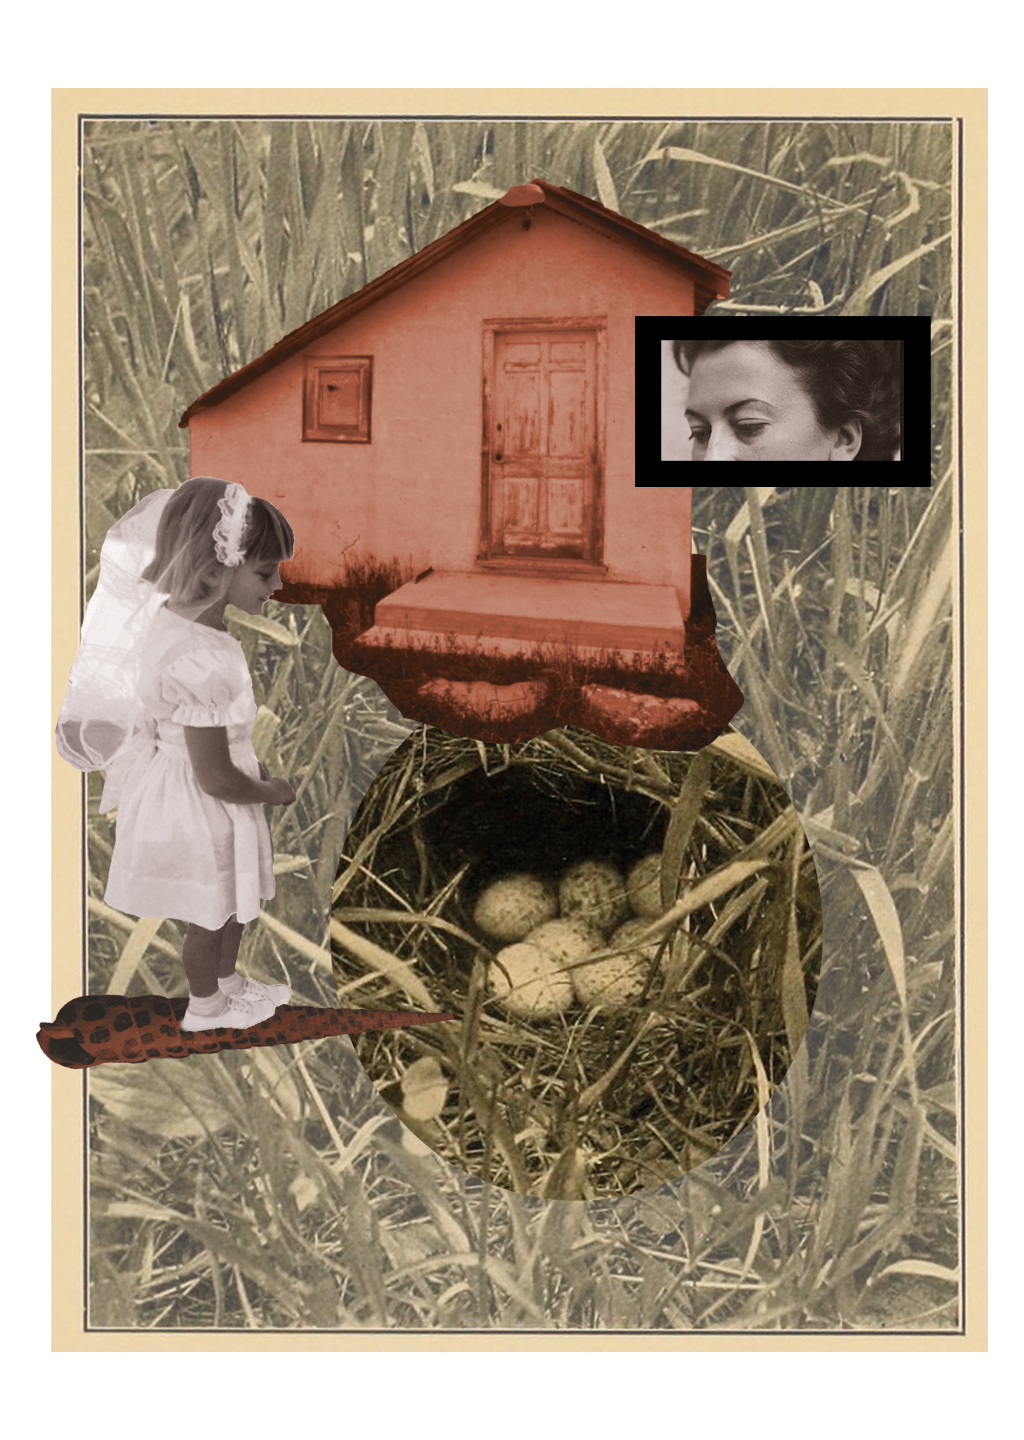
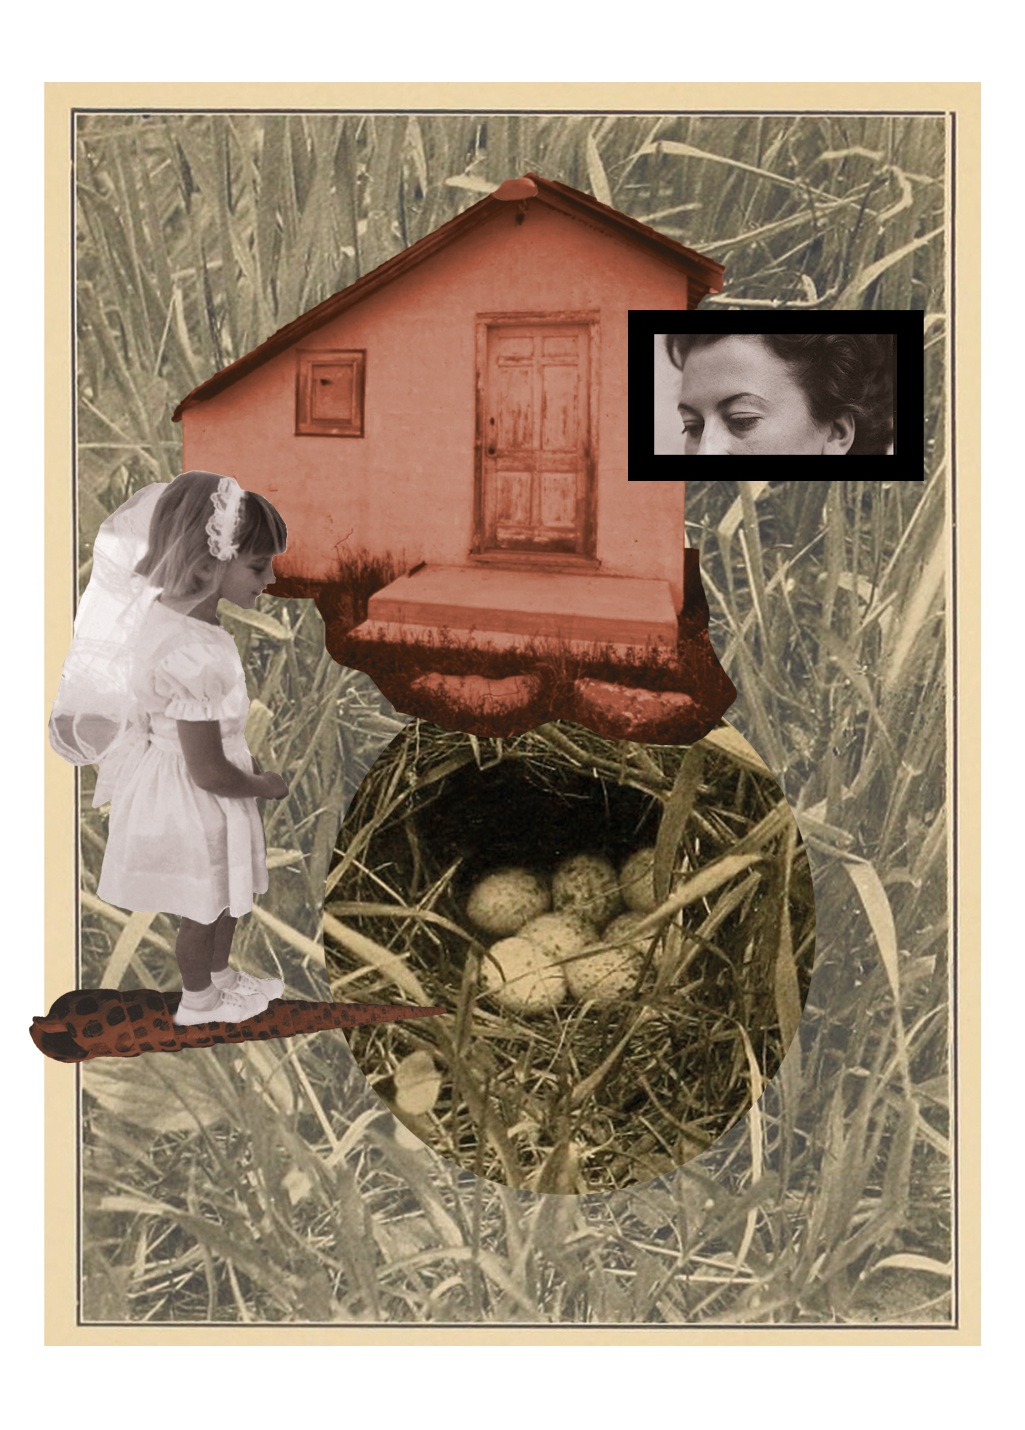
optimization_v3

diff --git a/src/sections/mujeroblicua/mujer-oblicua-view.jsx b/src/sections/mujeroblicua/mujer-oblicua-view.jsx
@@ -7,66 +7,54 @@ import {
 import HTMLFlipBook from "react-pageflip";
 import PdfButton from "../../components/PdfButton";
 
-const Cover = lazy(() => import("./components/Cover"));
-const VersoCover = lazy(() => import("./components/VersoCover"));
-const BackCover = lazy(() => import("./components/BackCover"));
-const PoemOne = lazy(() => import("./components/PoemOne"));
-const PoemTwoA = lazy(() => import("./components/PoemTwoA"));
-const PoemTwoB = lazy(() => import("./components/PoemTwoB"));
-const PoemThree = lazy(() => import("./components/PoemThree"));
-const CollageTwo = lazy(() => import("./components/CollageTwo"));
-const PageMiddleLeft = lazy(() => import("./components/PageMiddleLeft"));
-const PageMiddleRight = lazy(() => import("./components/PageMiddleRight"));
-const PoemFour = lazy(() => import("./components/PoemFour"));
-const CollageThree = lazy(() => import("./components/CollageThree"));
-const VideoPoem = lazy(() => import("./components/VideoPoem"));
-const VideoPoemImg = lazy(() => import("./components/VideoPoemImg"));
+const pages = [
+  lazy(() => import("./components/Cover")),
+  lazy(() => import("./components/VersoCover")),
+  lazy(() => import("./components/PoemOne")),
+  lazy(() => import("./components/PoemTwoA")),
+  lazy(() => import("./components/PoemTwoB")),
+  lazy(() => import("./components/PoemThree")),
+  lazy(() => import("./components/CollageTwo")),
+  lazy(() => import("./components/PageMiddleLeft")),
+  lazy(() => import("./components/PageMiddleRight")),
+  lazy(() => import("./components/PoemFour")),
+  lazy(() => import("./components/CollageThree")),
+  lazy(() => import("./components/VideoPoem")),
+  lazy(() => import("./components/VideoPoemImg")),
+  lazy(() => import("./components/BackCover")),
+];
 
 export default function MujerOblicuaView() {
   return (
-    <>
-      <Container maxWidth={"md"}>
-        <SectionAnimation>
-          <Stack spacing={2}>
-            <HTMLFlipBook
-              width={520}
-              height={750}
-              minWidth={235}
-              minHeight={0}
-              size="stretch"
-              maxShadowOpacity={0}
-              showCover={true}
-              flippingTime={900}
-              mobileScrollSupport
-              disableFlipByClick
-              showPageCorners={false}
-              startZIndex={100}
-            >
-              <Cover />
-              <VersoCover />
-              <PoemOne />
-              <PoemTwoA />
-              <PoemTwoB />
-              <PoemThree />
-              <CollageTwo />
-              <PageMiddleLeft />
-              <PageMiddleRight />
-              <PoemFour />
-              <CollageThree />
-              <VideoPoem />
-              <VideoPoemImg />
-              <BackCover />
-            </HTMLFlipBook>
-            <Container>
-              <Box sx={{ flexGrow: 1 }} display="flex" justifyContent="center">
-                <NavigateAnimation>
-                  <PdfButton />
-                </NavigateAnimation>
-              </Box>
-            </Container>
-          </Stack>
-        </SectionAnimation>
-      </Container>
-    </>
+    <Container maxWidth="md">
+      <SectionAnimation>
+        <Stack spacing={2}>
+          <HTMLFlipBook
+            width={520}
+            height={750}
+            minWidth={235}
+            minHeight={0}
+            size="stretch"
+            maxShadowOpacity={0}
+            showCover={true}
+            flippingTime={900}
+            mobileScrollSupport
+            disableFlipByClick
+            showPageCorners={false}
+          >
+            {pages.map((PageComponent, index) => (
+              <PageComponent key={index} />
+            ))}
+          </HTMLFlipBook>
+          <Container>
+            <Box sx={{ flexGrow: 1 }} display="flex" justifyContent="center">
+              <NavigateAnimation>
+                <PdfButton />
+              </NavigateAnimation>
+            </Box>
+          </Container>
+        </Stack>
+      </SectionAnimation>
+    </Container>
   );
 }

diff --git a/src/sections/mujeroblicua/components/VideoPoemImg.jsx b/src/sections/mujeroblicua/components/VideoPoemImg.jsx
@@ -1,26 +1,34 @@
-import { forwardRef } from "react";
+import { forwardRef, useState } from "react";
 import PropTypes from "prop-types";
 import { Card, CardMedia, Container } from "@mui/material";
 import videoPoemImg from "/media/videopoem-img.jpg";
+import CollageModal from "./CollageModal";
 
-const VideoPoemImg = forwardRef((props, ref) => (
-  <Container ref={ref} sx={{ backgroundColor: "white", borderRadius: 4 }}>
-    <Card
-      sx={{
-        position: "absolute",
-        top: "50%",
-        left: "50%",
-        transform: "translate(-50%, -50%)",
-      }}
-    >
-      <CardMedia
-        component={"img"}
-        sx={{ height: "auto" }}
-        image={videoPoemImg}
-      />
-    </Card>
-  </Container>
-));
+const VideoPoemImg = forwardRef((props, ref) => {
+  const [open, setOpen] = useState(false);
+
+  const handleOpen = () => setOpen(true);
+  const handleClose = () => setOpen(false);
+  return (
+    <Container ref={ref} sx={{ backgroundColor: "white", borderRadius: 4 }}>
+      <Card
+        sx={{
+          position: "absolute",
+          top: "50%",
+          left: "50%",
+          transform: "translate(-50%, -50%)",
+          width: "90%",
+          objectFit: "cover",
+        }}
+        onClick={handleOpen}
+      >
+        <CardMedia component={"img"} image={videoPoemImg} alt="Video Poema" />
+      </Card>
+
+      <CollageModal open={open} onClose={handleClose} image={videoPoemImg} />
+    </Container>
+  );
+});
 
 export default VideoPoemImg;
 

diff --git a/src/sections/mujeroblicua/components/CollageTwo.jsx b/src/sections/mujeroblicua/components/CollageTwo.jsx
@@ -1,6 +1,12 @@
 import { forwardRef, useState } from "react";
 import PropTypes from "prop-types";
-import { Card, CardActionArea, CardMedia, Container } from "@mui/material";
+import {
+  Card,
+  CardActionArea,
+  CardMedia,
+  Container,
+  Paper,
+} from "@mui/material";
 import collage2 from "/media/collage-2.jpg";
 import CollageModal from "./CollageModal";
 
@@ -12,23 +18,23 @@ const CollageTwo = forwardRef((props, ref) => {
 
   return (
     <Container ref={ref} sx={{ backgroundColor: "white", borderRadius: 4 }}>
-      <Card
-        sx={{
-          position: "absolute",
-          top: "50%",
-          left: "50%",
-          transform: "translate(-50%, -50%)",
-        }}
-        onClick={handleOpen}
-      >
-        <CardActionArea>
-          <CardMedia
-            component={"img"}
-            sx={{ height: "auto" }}
-            image={collage2}
-          />
-        </CardActionArea>
-      </Card>
+      <Paper>
+        <Card
+          sx={{
+            position: "absolute",
+            top: "50%",
+            left: "50%",
+            transform: "translate(-50%, -50%)",
+            width: "90%",
+            objectFit: "cover",
+          }}
+          onClick={handleOpen}
+        >
+          <CardActionArea>
+            <CardMedia component={"img"} image={collage2} alt="Lo que honro" />
+          </CardActionArea>
+        </Card>
+      </Paper>
 
       <CollageModal open={open} onClose={handleClose} image={collage2} />
     </Container>

diff --git a/src/sections/mujeroblicua/components/CollageModal.jsx b/src/sections/mujeroblicua/components/CollageModal.jsx
@@ -1,22 +1,24 @@
-import { CardMedia, Dialog, IconButton } from "@mui/material";
+import { Box, CardMedia, Dialog, IconButton } from "@mui/material";
 import CloseIcon from "@mui/icons-material/Close";
 import PropTypes from "prop-types";
 
 const CollageModal = ({ open, onClose, image }) => (
-  <Dialog open={open} onClose={onClose}>
-    <CardMedia component="img" sx={{ height: "auto" }} image={image} />
-    <IconButton
-      aria-label="close"
-      onClick={onClose}
-      sx={(theme) => ({
-        position: "absolute",
-        right: 8,
-        top: 8,
-        color: theme.palette.grey[500],
-      })}
-    >
-      <CloseIcon />
-    </IconButton>
+  <Dialog maxWidth="sm" open={open} onClose={onClose}>
+    <Box sx={{ p: 2, bgcolor: "black" }}>
+      <CardMedia component="img" sx={{ borderRadius: 1 }} image={image} />
+      <IconButton
+        aria-label="close"
+        onClick={onClose}
+        sx={(theme) => ({
+          position: "absolute",
+          right: 18,
+          top: 18,
+          color: theme.palette.grey[500],
+        })}
+      >
+        <CloseIcon />
+      </IconButton>
+    </Box>
   </Dialog>
 );
 

diff --git a/src/sections/mujeroblicua/components/CollageThree.jsx b/src/sections/mujeroblicua/components/CollageThree.jsx
@@ -18,15 +18,13 @@ const CollageThree = forwardRef((props, ref) => {
           top: "50%",
           left: "50%",
           transform: "translate(-50%, -50%)",
+          width: "90%",
+          objectFit: "cover",
         }}
         onClick={handleOpen}
       >
         <CardActionArea>
-          <CardMedia
-            component={"img"}
-            sx={{ height: "auto" }}
-            image={collage3}
-          />
+          <CardMedia component={"img"} image={collage3} alt="Niña nido" />
         </CardActionArea>
       </Card>
 
